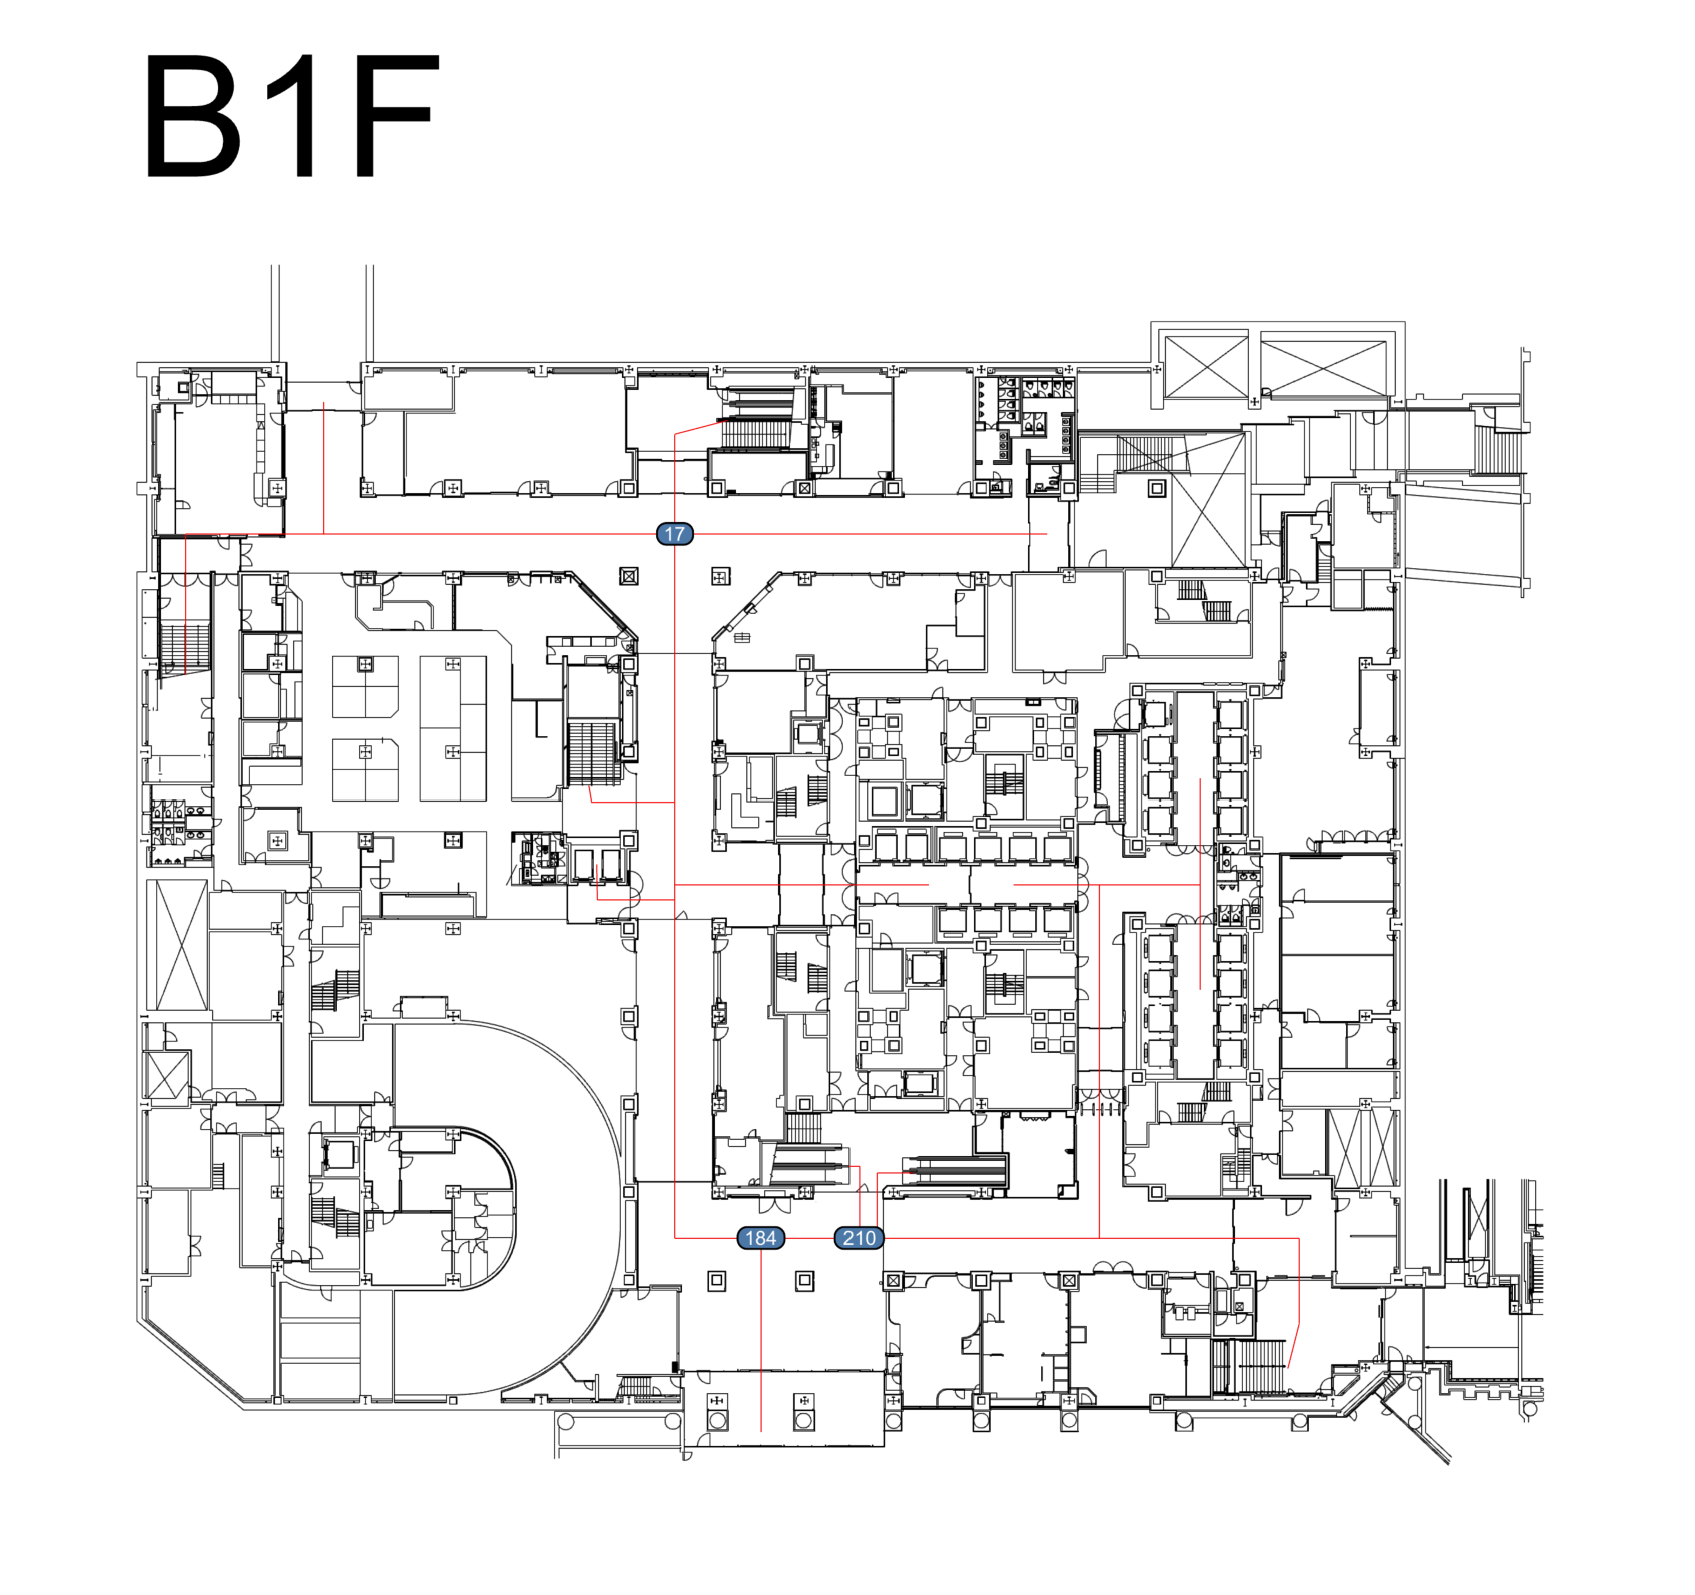
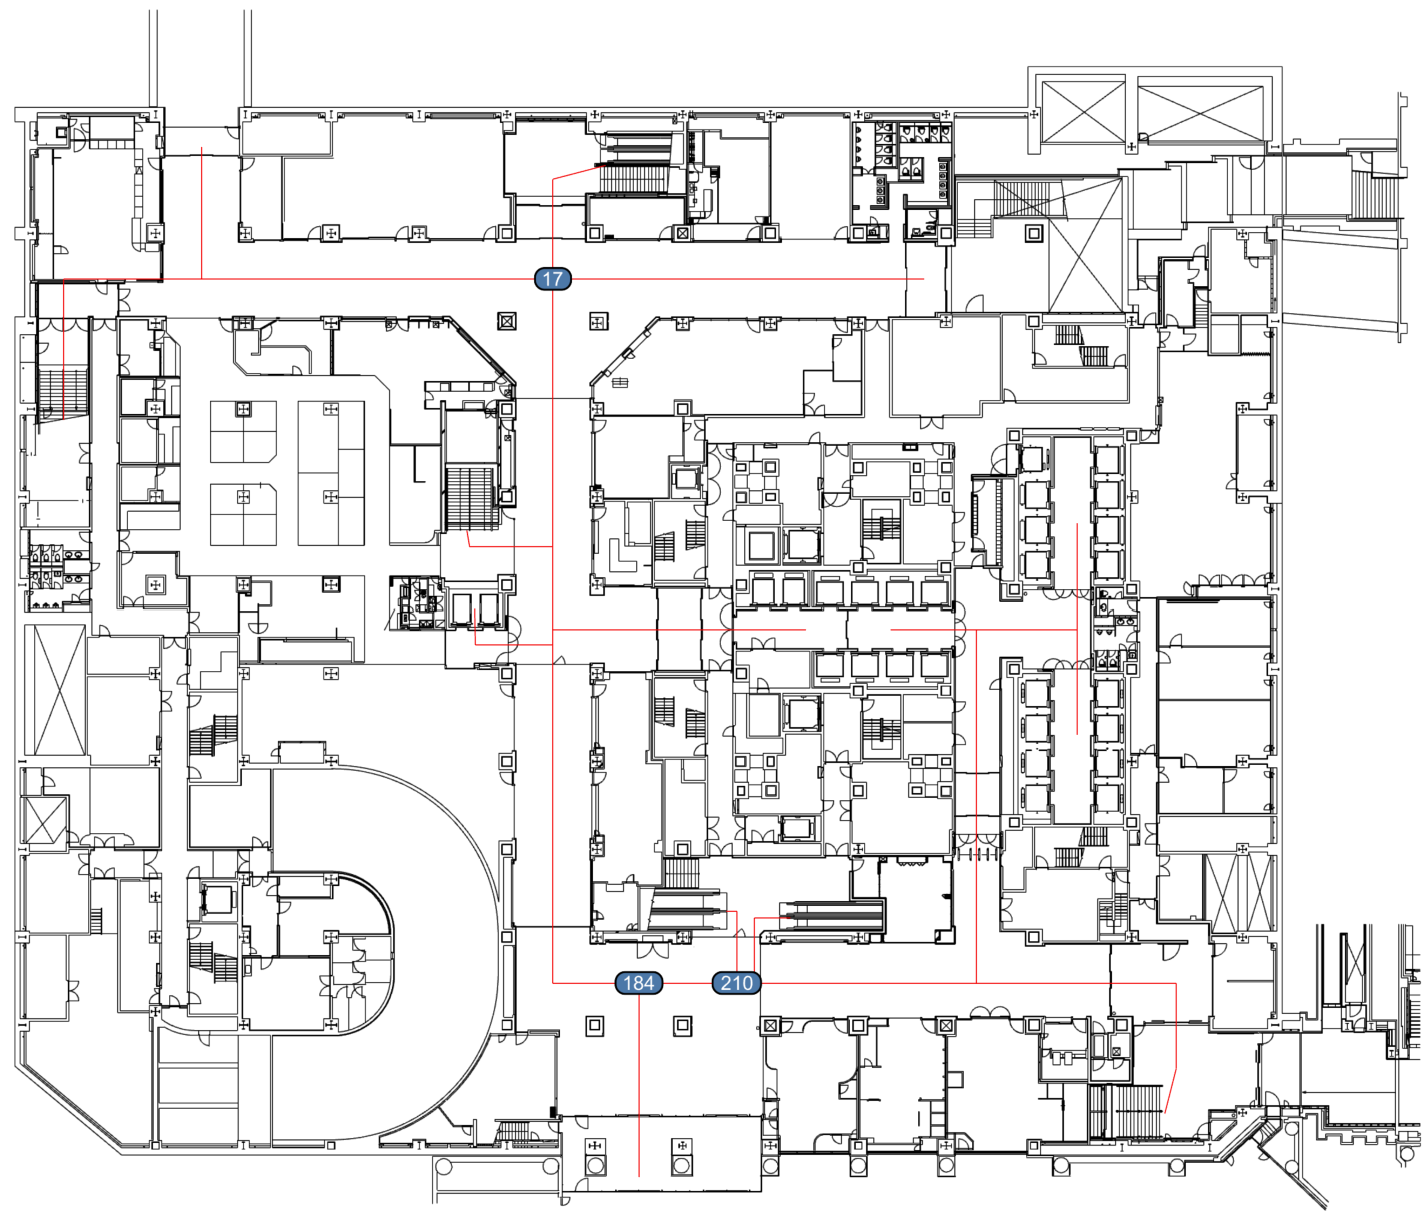
Add files via upload

Changed region(s): [[0.0, 0.0305, 1.0, 1.0], [0.0309, 0.8831, 0.0618, 0.9136]]

diff --git a/index.html b/index.html
@@ -74,7 +74,7 @@
       z-index: 30;
       top: 18px;
       right: 18px;
-      width: clamp(210px, 22vw, 220px);
+      width: clamp(210px, 22vw, 20px);
       padding: 8px;
       background: rgba(255,255,255,.94);
       border-radius: 10px;
@@ -213,7 +213,7 @@
       <button
         class="plan-marker active"
         data-scene="scene17"
-        style="left: 39.79%; top: 33.46%;"
+        style="left: 38.77; top: 22.96%;"
         aria-label="panorama17.jpgを表示">
         17
       </button>
@@ -221,7 +221,7 @@
       <button
         class="plan-marker"
         data-scene="scene184"
-        style="left: 44.85%; top: 77.59%;"
+        style="left: 44.81%; top: 80.86%;"
         aria-label="panorama184.jpgを表示">
         184
       </button>
@@ -229,7 +229,7 @@
       <button
         class="plan-marker"
         data-scene="scene210"
-        style="left: 50.6%; top: 77.59%;"
+        style="left: 51.68%; top: 80.86%;"
         aria-label="panorama210.jpgを表示">
         210
       </button>
